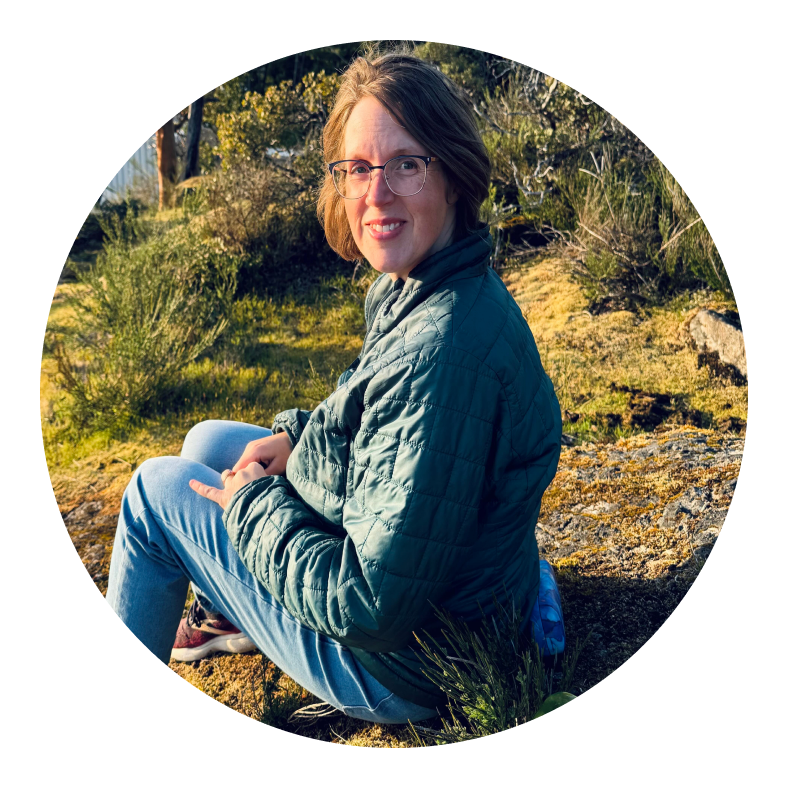
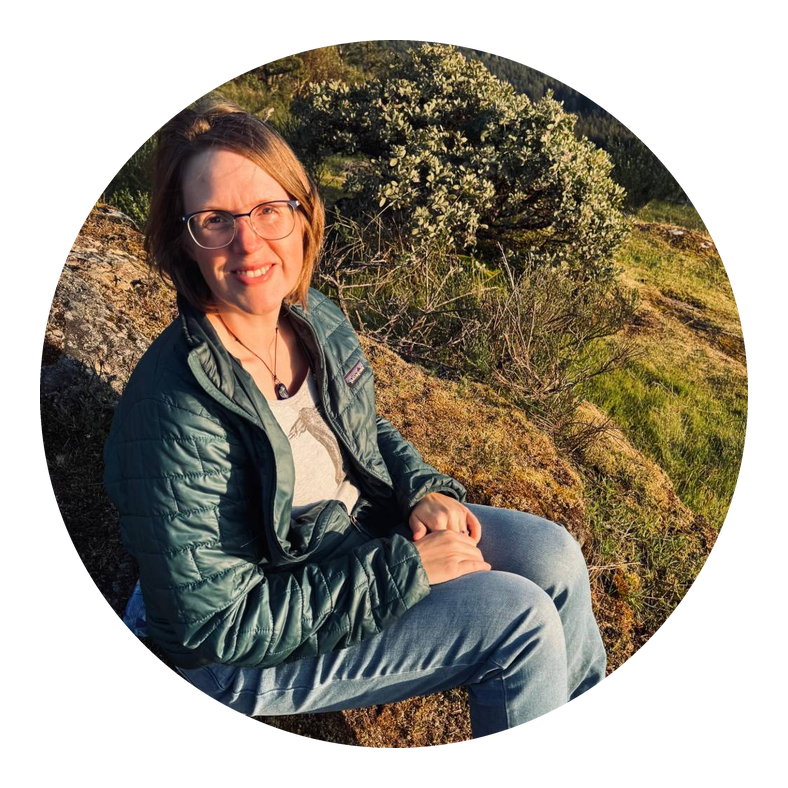
Home: swap in new portrait, lock 1:1 aspect ratio so it can't squish

diff --git a/index.html b/index.html
@@ -76,7 +76,7 @@
     <section class="intro" aria-labelledby="intro-title">
       <div class="intro__inner">
         <div class="portrait reveal">
-          <img src="/img/home/portrait-circle.png" alt="Anne-Lynn sitting on a hillside overlooking a lake" width="394" height="394" />
+          <img src="/img/home/portrait-circle.png" alt="Anne-Lynn sitting on a hillside overlooking a lake" width="788" height="788" />
         </div>
         <div>
           <h2 id="intro-title">I’m Anne-Lynn, a graphic designer who loves turning ideas into things people can see, hold, and understand.</h2>

diff --git a/src/styles/home.css b/src/styles/home.css
@@ -97,7 +97,7 @@
   column-gap: calc(55 * var(--u)); align-items: start;
 }
 .portrait { margin-top: calc(20 * var(--u)); }
-.portrait img { width: 100%; height: auto; }
+.portrait img { display: block; width: 100%; height: auto; aspect-ratio: 1 / 1; object-fit: cover; }
 
 .intro h2 {
   max-width: calc(810 * var(--u));
